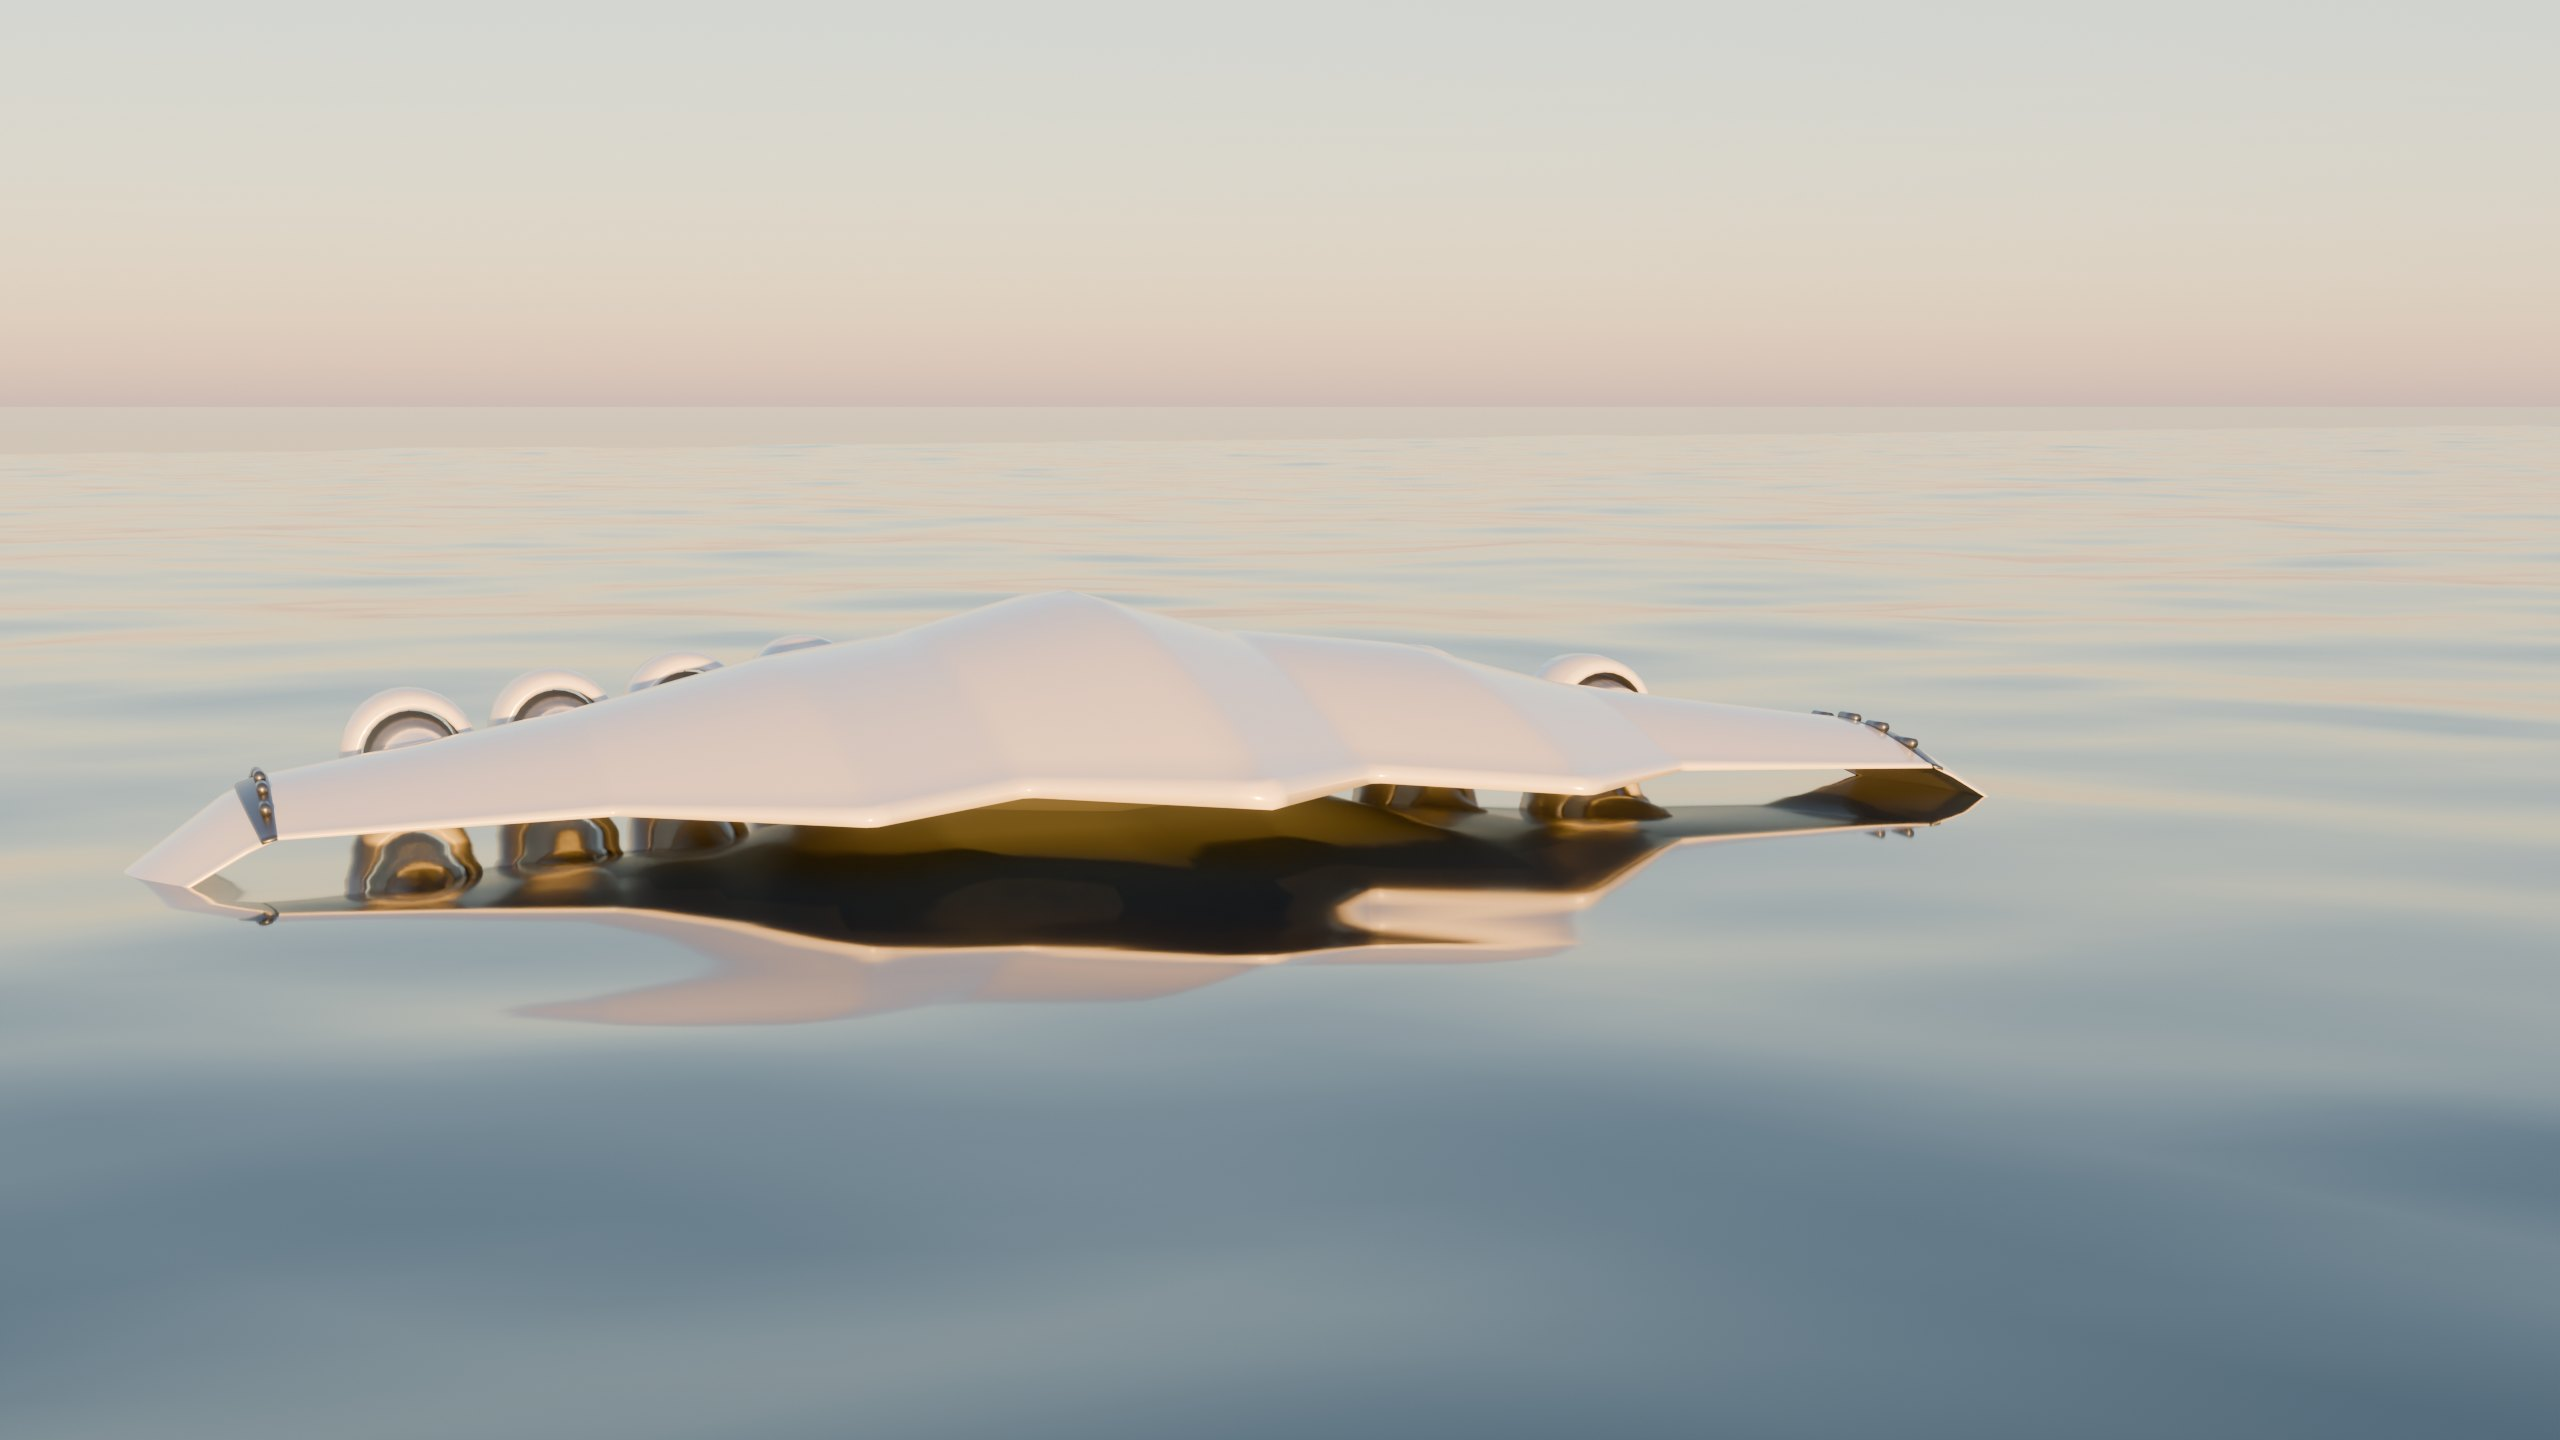
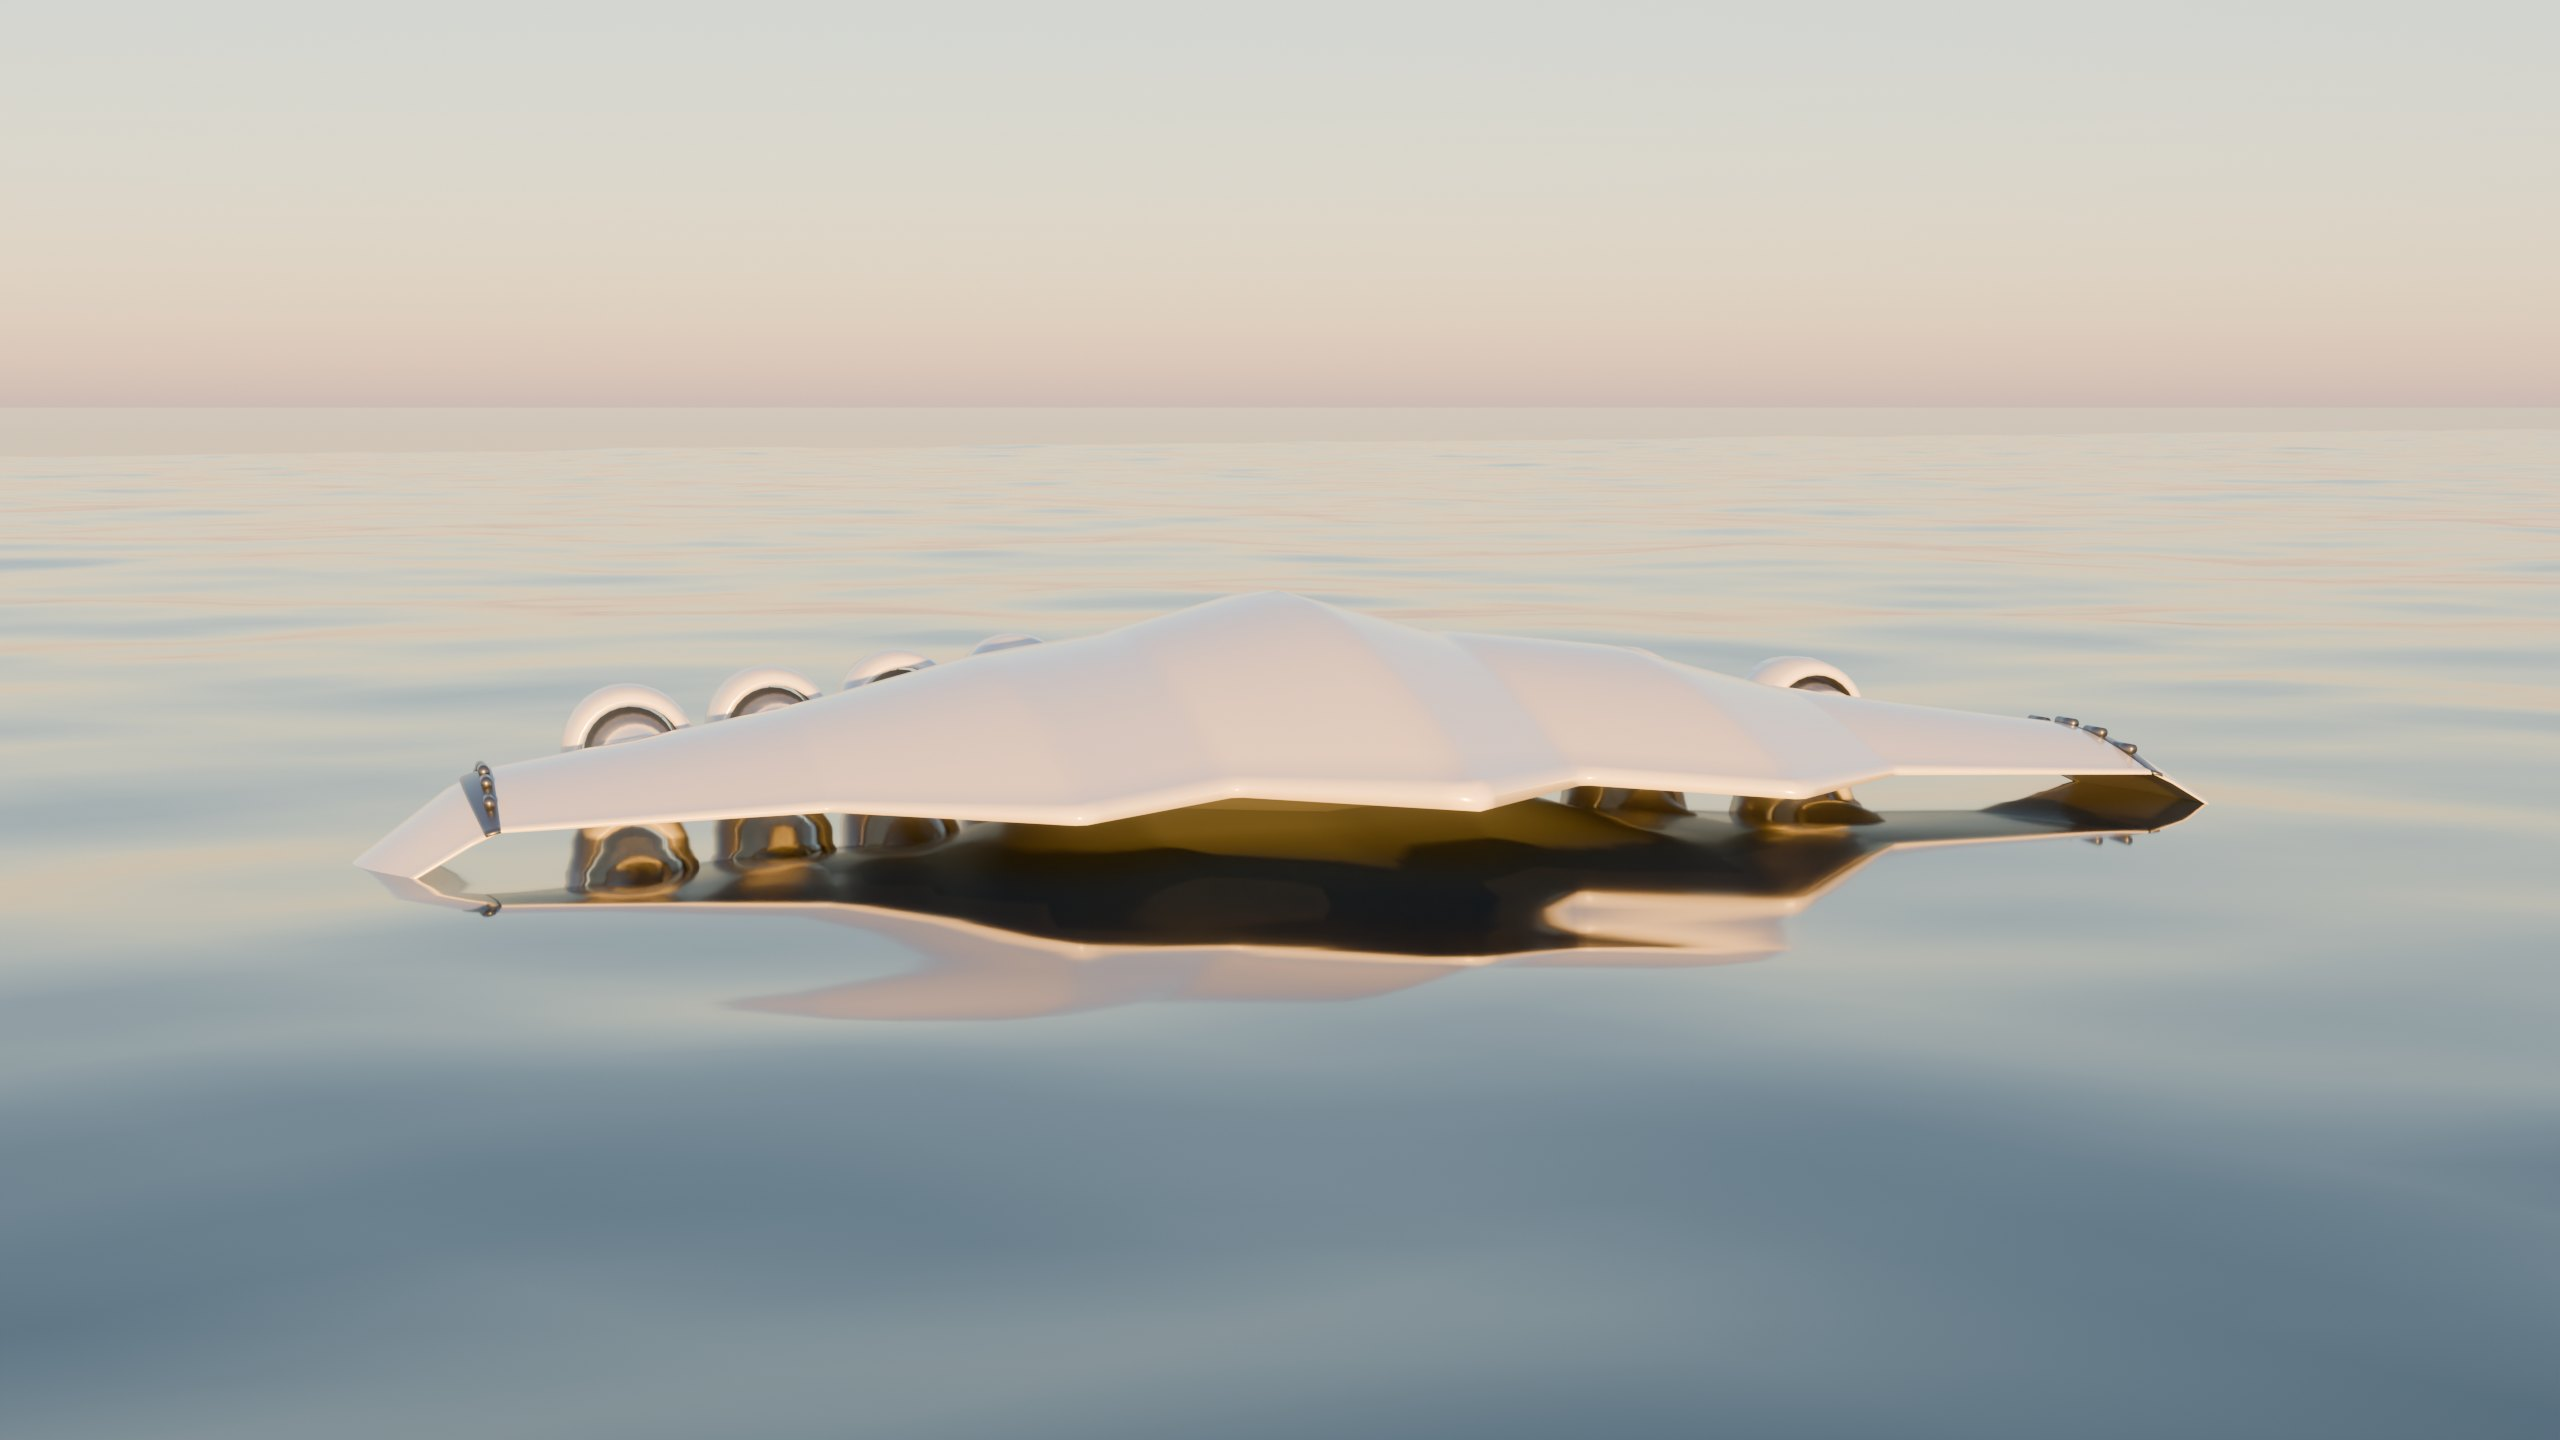
Full site goes dynamic: all five renders now living loops
Dawn, flow, afloat join studio and chase as seamless EEVEE loops with
spinning fans; chase re-rendered with the ocean-edge fix; afloat still
and loop recomposed centered. Stills serve as posters and for
reduced-motion visitors.

diff --git a/index.html b/index.html
@@ -264,7 +264,7 @@ h1,h2{font-family:"Space Grotesk","Inter",sans-serif;font-weight:600;line-height
   position:relative;aspect-ratio:2560/1200;border-radius:var(--radius);overflow:hidden;
   box-shadow:0 30px 80px -40px rgba(10,26,42,.35);background:var(--sea);
 }
-.cushion img{position:absolute;inset:0;width:100%;height:100%;object-fit:cover}
+.cushion img,.cushion video{position:absolute;inset:0;width:100%;height:100%;object-fit:cover}
 .anno{position:absolute;inset:0;width:100%;height:100%}
 .cushion figcaption{margin-top:1.1rem;text-align:center}
 .arc{fill:none;stroke:var(--accent);stroke-width:2;stroke-linecap:round}
@@ -346,7 +346,7 @@ a.chip:hover{transform:translateY(-2px);box-shadow:0 10px 30px rgba(10,30,60,.12
 
 /* ---------- S8 vision ---------- */
 .vision{position:relative;min-height:92vh;min-height:92svh;display:flex;align-items:center;overflow:hidden;background:#F6F1E7}
-.vision>img{position:absolute;inset:0;width:100%;height:100%;object-fit:cover}
+.vision>img,.vision>video{position:absolute;inset:0;width:100%;height:100%;object-fit:cover}
 .vision .scrim{position:absolute;inset:0;background:linear-gradient(to bottom,rgba(250,247,240,.94) 0%,rgba(250,247,240,.62) 48%,rgba(250,247,240,.18) 80%,rgba(250,247,240,0) 100%)}
 .vision .container{position:relative;z-index:1;text-align:center;padding-block:8rem}
 .vision h2{font-size:clamp(2.6rem,6.4vw,5rem);max-width:12em;margin-inline:auto}
@@ -547,8 +547,11 @@ footer{background:var(--paper);border-top:1px solid var(--line);padding:2.6rem 0
   <div class="container">
     <figure class="cushion" data-r style="--d:.12s">
       <div class="frame">
-        <img src="assets/render-flow.jpg" width="2560" height="1200" loading="lazy" decoding="async"
-             alt="Flow visualization: streamlines compress beneath the craft, forming the air cushion">
+        <video class="lazyloop" muted loop playsinline preload="none"
+         poster="assets/render-flow.jpg" width="2560" height="1200"
+         aria-label="Animated flow visualization: streamlines compress beneath the craft, forming the air cushion">
+    <source data-src="assets/loop-flow.mp4" type="video/mp4">
+  </video>
         <svg class="anno" viewBox="0 0 1280 600" preserveAspectRatio="none" aria-hidden="true" focusable="false">
           <g class="dim" stroke-dasharray="none">
             <path d="M600,262 V392"/>
@@ -563,8 +566,11 @@ footer{background:var(--paper);border-top:1px solid var(--line);padding:2.6rem 0
     </figure>
     <figure class="cushion" data-r style="--d:.1s">
       <div class="frame">
-        <img src="assets/render-afloat.jpg" width="2560" height="1440" loading="lazy" decoding="async"
-             alt="Craft at rest on the water at dusk, wingtips folded down with floats touching the surface">
+        <video class="lazyloop" muted loop playsinline preload="none"
+         poster="assets/render-afloat.jpg" width="2560" height="1440"
+         aria-label="Craft at rest on the water at dusk, wingtips folded down with floats touching the surface">
+    <source data-src="assets/loop-afloat.mp4" type="video/mp4">
+  </video>
       </div>
       <figcaption class="caption tick">Hull-borne: wings fold, floats down.</figcaption>
     </figure>
@@ -669,8 +675,11 @@ footer{background:var(--paper);border-top:1px solid var(--line);padding:2.6rem 0
 
 <!-- ================= S8 · VISION + CONTACT ================= -->
 <section class="vision" id="contact" aria-labelledby="h-vision">
-  <img src="assets/render-dawn.jpg" width="2560" height="1440" loading="lazy" decoding="async"
-       alt="WIG craft flying toward the horizon at sunset">
+  <video class="lazyloop" muted loop playsinline preload="none"
+         poster="assets/render-dawn.jpg" width="2560" height="1440"
+         aria-label="WIG craft flying toward the horizon at sunset">
+    <source data-src="assets/loop-dawn.mp4" type="video/mp4">
+  </video>
   <div class="scrim" aria-hidden="true"></div>
   <div class="container">
     <h2 id="h-vision" data-r>A Cost You Cannot Imagine</h2>